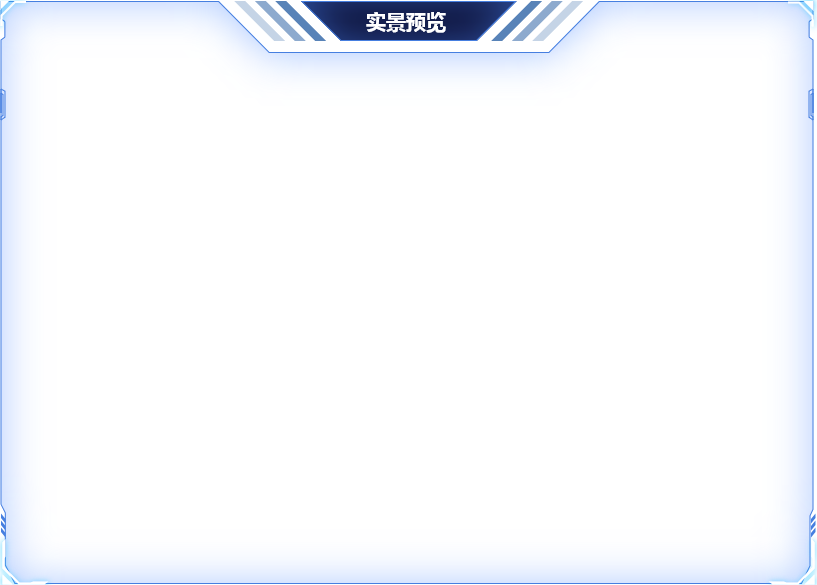
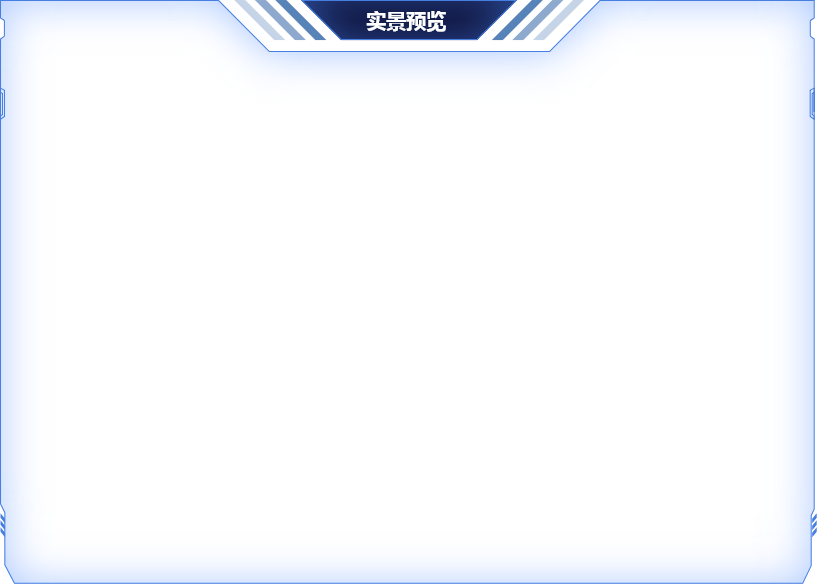
开发

Changed region(s): [[0.0, 0.0, 1.0, 1.0], [0.0, 0.0, 0.2754, 0.0615], [0.0, 0.1538, 0.0306, 0.2154]]

diff --git a/src/components/construction/homeTab/center1.vue b/src/components/construction/homeTab/center1.vue
@@ -1,12 +1,14 @@
 <template>
 <div class="center1-1Class">
+    <div class="upAngle"></div>
     <div class="changeBtnClass clear" style="z-index:2">
         <div @click="handleChange('1')" class="l">实景效果</div>
         <div @click="handleChange('2')" class="r">宣传视频</div>
     </div>
     <img v-show="showImg" src="./images/center/center-icon-2.png" alt="">
-    <video style="z-index:-1" v-if="showVide" src="https://vdept.bdstatic.com/446c6b3841514932536677353949617a/58775a7339796d41/979d2b5f5ef257426fb98734eb0d38777cfa91d1e79f74edf181b30e395a50961d7ed1533c3876513c3d7797020f8048.mp4?auth_key=1596956473-0-0-f07d5235cf493fc56e413b934d38b078" width="813" height="583" autoplay controls="controls">
+    <video style="z-index:-1" v-if="showVide" src="https://vdept.bdstatic.com/4976396259354c684a73364b74524550/325842545a624c74/52947aef42001a838ea9367de0bca21cade3da8c6275cf5d3ade39839dfc412bba283a2bfde0c9011333ad618808f687.mp4?auth_key=1596963813-0-0-951ea098559719818e2ad68092b68ac7" width="813" height="583" autoplay controls="controls">
     </video>
+    <div class="downAngle"></div>
 </div>
 </template>
 
@@ -44,6 +46,28 @@ export default {
         font-weight: bold;
         width: 100%;
         padding: 10px 143px;
+    }
+
+    .downAngle {
+        background: url("./images/center/center-icon-4.png") 0 0 no-repeat;
+        width: 816px;
+        height: 74px;
+        position: absolute;
+        bottom: 3px;
+        right: 0px;
+        background-size: 100% 100%;
+        z-index: 99;
+    }
+
+    .upAngle {
+        background: url("./images/center/center-icon-5.png") 0 0 no-repeat;
+        width: 829px;
+        height: 39px;
+        position: absolute;
+        right: -5px;
+        top: -8px;
+        z-index: 99;
+        background-size: 100% 100%;
     }
 }
 </style>

diff --git a/src/components/construction/homeTab/left2-echart.vue b/src/components/construction/homeTab/left2-echart.vue
@@ -34,10 +34,10 @@
       })
     },*/
     mounted(){
-      this.drawLine();
+      this.drawLine(this.pieDataY);
     },
     methods: {
-      drawLine() {
+      drawLine(data) {
         // 基于准备好的dom，初始化echarts实例
         let myChart = this.$echarts.init(document.getElementById('myChart'))
         // 绘制图表
@@ -81,7 +81,7 @@
                 },
                 //自定义颜色数组
                 color:['#F1EF64','#FB9A55','#EE3E3E','#6BD98D','#78D7ED'],
-                data:this.pieDataY
+                data:data
               }
             ]
           }

diff --git a/src/components/construction/homeTab/left2.vue b/src/components/construction/homeTab/left2.vue
@@ -51,7 +51,6 @@
       },
       methods:{
         changePeople(val){
-          debugger;
           this.current = val
           if(val==0){
             this.pieDataY = [
@@ -74,8 +73,8 @@
             console.log('this.pieDataY1',this.pieDataY)
           }
 
-          this.$forceUpdate()
-          this.$refs.left2EchartRef.drawLine()
+          // this.$forceUpdate()
+          this.$refs.left2EchartRef.drawLine(this.pieDataY)
         }
       }
     }

diff --git a/src/components/construction/homeTab/index.vue b/src/components/construction/homeTab/index.vue
@@ -132,7 +132,7 @@ export default {
         .right1Class {
             width: 489px;
             height: 280px;
-            margin-bottom: 20px;
+            margin-bottom: 23px;
             background: url("./images/right/right-border-1.png") 0 0 no-repeat;
         }
 
